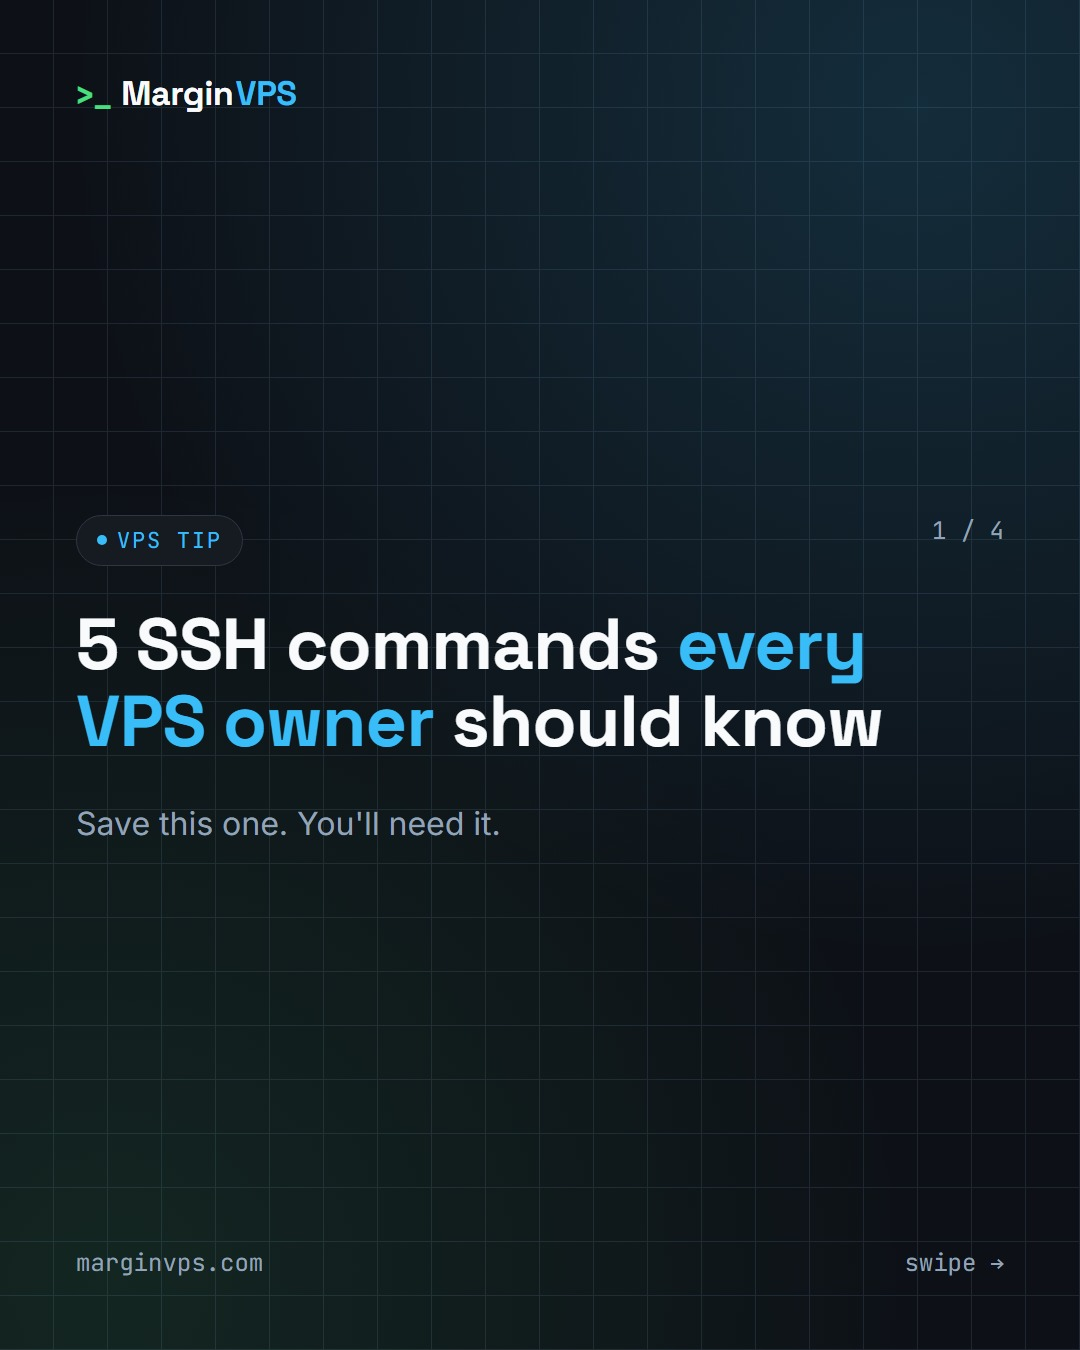
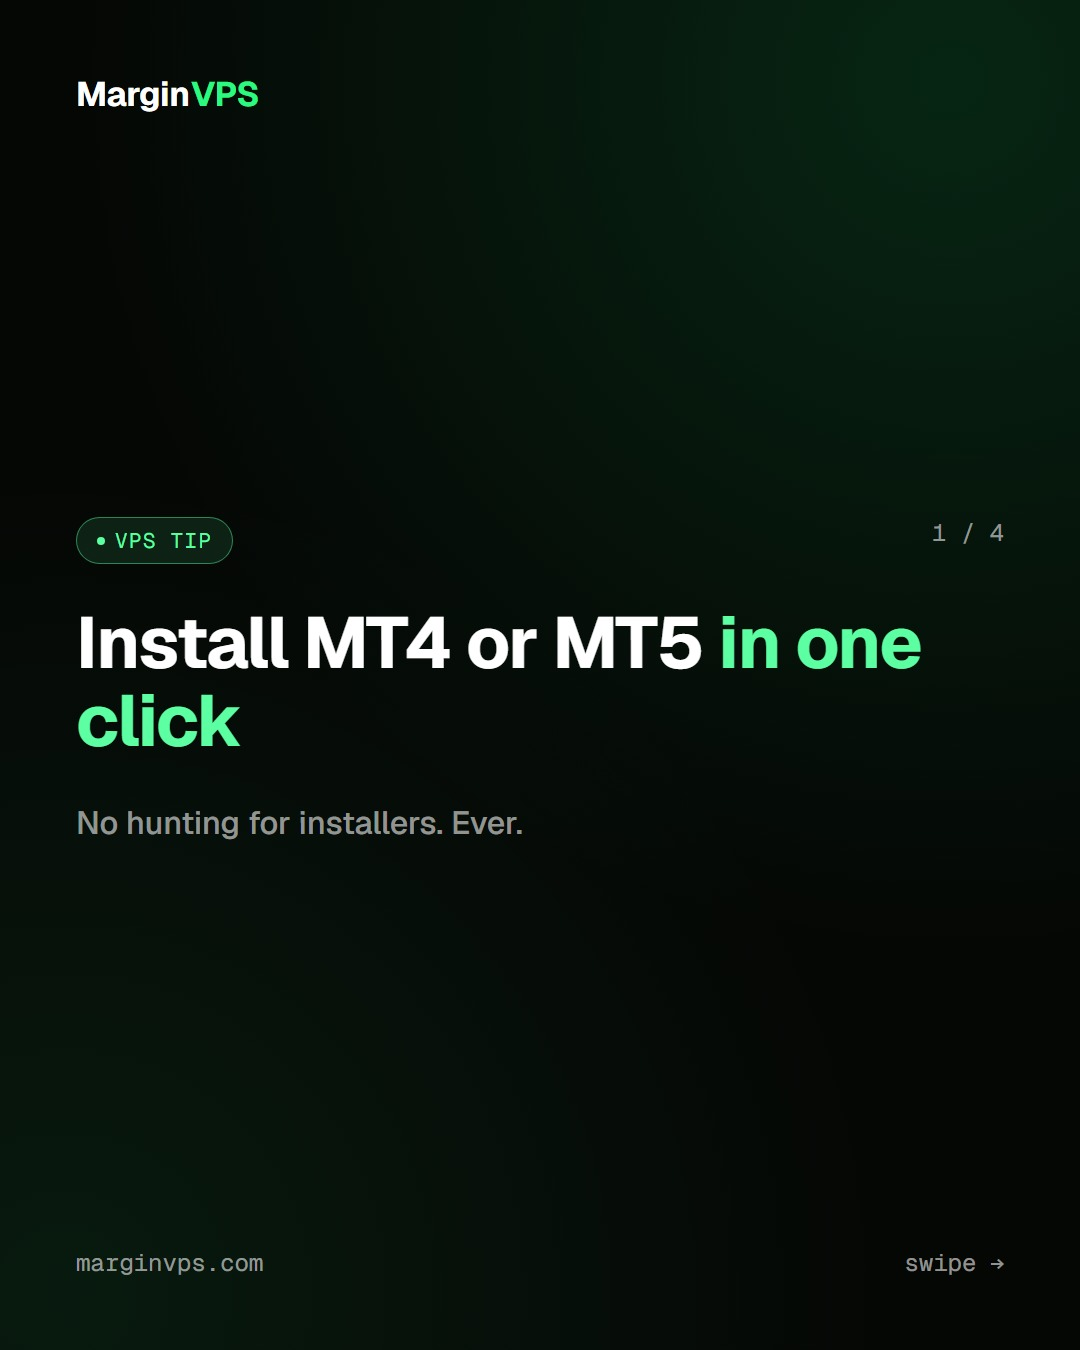
Correct brand to real MarginVPS identity (forex VPS, black/green) and rewrite 14-day calendar for forex-trading content

diff --git a/templates/slide.html b/templates/slide.html
@@ -5,37 +5,31 @@
 <title>MarginVPS Slide</title>
 <link rel="preconnect" href="https://fonts.googleapis.com">
 <link rel="preconnect" href="https://fonts.gstatic.com" crossorigin>
-<link href="https://fonts.googleapis.com/css2?family=Space+Grotesk:wght@500;700&family=Inter:wght@400;500;600&family=JetBrains+Mono:wght@400;500&display=swap" rel="stylesheet">
+<link href="https://fonts.googleapis.com/css2?family=Geist:wght@500;600;700&family=Geist+Mono:wght@400;500&display=swap" rel="stylesheet">
 <style>
   :root{
-    --bg: #0D1117;
-    --bg-raised: #161B22;
-    --grid-line: #1E2630;
-    --cyan: #38BDF8;
-    --green: #4ADE80;
-    --amber: #FB923C;
-    --text: #F8FAFC;
-    --text-dim: #94A3B8;
-    --border: #2D3643;
+    --bg: #050705;
+    --bg-raised: #0B100B;
+    --hairline: rgba(255,255,255,0.1);
+    --green: #12E068;
+    --mint: #2CF982;
+    --mint-light: #5CFFA1;
+    --text: #FFFFFF;
+    --text-dim: rgba(255,255,255,0.56);
   }
   *{box-sizing:border-box; margin:0; padding:0;}
   html,body{width:1080px; height:1350px; overflow:hidden;}
   body{
     background: var(--bg);
     color: var(--text);
-    font-family: "Inter", Arial, sans-serif;
+    font-family: "Geist", Arial, sans-serif;
     position: relative;
-    background-image:
-      linear-gradient(var(--grid-line) 1px, transparent 1px),
-      linear-gradient(90deg, var(--grid-line) 1px, transparent 1px);
-    background-size: 54px 54px;
-    background-position: -1px -1px;
   }
   body::before{
     content:"";
     position:absolute; inset:0;
-    background: radial-gradient(circle at 85% 8%, rgba(56,189,248,0.16), transparent 55%),
-                radial-gradient(circle at 10% 95%, rgba(74,222,128,0.10), transparent 50%);
+    background: radial-gradient(circle at 88% 6%, rgba(18,224,104,0.14), transparent 55%),
+                radial-gradient(circle at 6% 96%, rgba(44,249,130,0.08), transparent 50%);
     pointer-events:none;
   }
   .frame{
@@ -47,122 +41,129 @@
 
   /* wordmark */
   .wordmark{
-    display:inline-flex; align-items:baseline; gap:2px;
-    font-family:"Space Grotesk", Arial, sans-serif;
+    display:inline-flex; align-items:baseline; gap:1px;
+    font-family:"Geist", Arial, sans-serif;
     font-weight:700; font-size:34px; letter-spacing:-0.01em;
   }
-  .wordmark .prompt{ color:var(--green); font-family:"JetBrains Mono", monospace; font-size:30px; margin-right:8px; }
   .wordmark .margin{ color:var(--text); }
-  .wordmark .vps{ color:var(--cyan); }
+  .wordmark .vps{ color:var(--mint); }
 
-  /* pillar badge */
+  /* pillar badge — mirrors the site's latency-pill look */
   .badge{
     display:inline-flex; align-items:center; gap:10px;
-    padding: 10px 20px;
+    padding: 9px 20px;
     border-radius: 999px;
-    border: 1px solid var(--border);
-    background: var(--bg-raised);
-    font-family:"JetBrains Mono", monospace;
-    font-size: 22px; letter-spacing: 0.08em;
+    border: 1px solid color-mix(in srgb, var(--badge-color, var(--mint-light)) 45%, transparent);
+    background: color-mix(in srgb, var(--badge-color, var(--mint-light)) 10%, transparent);
+    font-family:"Geist Mono", monospace;
+    font-size: 21px; letter-spacing: 0.06em;
     text-transform: uppercase;
-    color: var(--badge-color, var(--cyan));
+    color: var(--badge-color, var(--mint-light));
     width: fit-content;
   }
-  .badge .dot{ width:10px; height:10px; border-radius:50%; background:var(--badge-color, var(--cyan)); }
+  .badge .dot{ width:8px; height:8px; border-radius:50%; background:var(--badge-color, var(--mint-light)); }
 
   .topbar{ display:flex; justify-content:space-between; align-items:flex-start; }
-  .pager{ font-family:"JetBrains Mono", monospace; color:var(--text-dim); font-size:24px; }
+  .pager{ font-family:"Geist Mono", monospace; color:var(--text-dim); font-size:24px; }
 
   .headline{
-    font-family:"Space Grotesk", Arial, sans-serif;
+    font-family:"Geist", Arial, sans-serif;
     font-weight:700;
     font-size: 72px;
     line-height: 1.08;
-    letter-spacing:-0.01em;
+    letter-spacing:-0.02em;
     color: var(--text);
   }
-  .headline .accent{ color: var(--badge-color, var(--cyan)); }
+  .headline .accent{ color: var(--badge-color, var(--mint-light)); }
 
   .sub{
     font-size: 32px;
     line-height: 1.45;
     color: var(--text-dim);
     max-width: 92%;
+    font-weight: 500;
   }
 
-  /* content slide list */
+  /* numbered step list */
   .list{ display:flex; flex-direction:column; gap:28px; }
   .list-item{
     display:flex; gap:22px; align-items:flex-start;
     font-size: 34px; line-height:1.4; color: var(--text);
+    font-weight: 500;
+    padding-bottom: 26px;
+    border-bottom: 1px solid var(--hairline);
   }
+  .list-item:last-child{ border-bottom: none; }
   .list-item .num{
-    font-family:"JetBrains Mono", monospace;
-    color: var(--badge-color, var(--cyan));
+    font-family:"Geist Mono", monospace;
+    color: var(--badge-color, var(--mint-light));
     font-size: 30px; font-weight:500;
     flex-shrink:0; padding-top:4px;
   }
 
-  /* terminal window motif */
-  .terminal{
+  /* label/value row list — broker latency, feature checklists, comparisons */
+  .rows{ display:flex; flex-direction:column; }
+  .row{
+    display:flex; justify-content:space-between; align-items:center;
+    padding: 26px 0;
+    border-bottom: 1px solid var(--hairline);
+  }
+  .row:last-child{ border-bottom:none; }
+  .row .label{ font-size: 32px; font-weight:600; color: var(--text); }
+  .row .label .meta{ display:block; font-size:22px; color:var(--text-dim); font-weight:500; margin-top:4px; font-family:"Geist Mono", monospace; }
+  .row .value{
+    font-family:"Geist Mono", monospace;
+    font-size: 26px; font-weight:500;
+    color: var(--mint-light);
+    background: rgba(44,249,130,0.1);
+    border: 1px solid rgba(44,249,130,0.35);
+    border-radius: 999px;
+    padding: 10px 22px;
+  }
+
+  /* card grid, dark hairline-bordered card */
+  .card{
     background: var(--bg-raised);
-    border: 1px solid var(--border);
-    border-radius: 16px;
-    overflow:hidden;
-    box-shadow: 0 30px 60px -20px rgba(0,0,0,0.6);
+    border: 1px solid var(--hairline);
+    border-radius: 20px;
+    padding: 36px 38px;
   }
-  .terminal .bar{
-    display:flex; align-items:center; gap:10px;
-    padding: 16px 20px;
-    border-bottom: 1px solid var(--border);
-  }
-  .terminal .bar span{ width:14px; height:14px; border-radius:50%; display:inline-block; }
-  .terminal .bar span:nth-child(1){ background:#FB5B5B; }
-  .terminal .bar span:nth-child(2){ background:#F6C343; }
-  .terminal .bar span:nth-child(3){ background:#4ADE80; }
-  .terminal .body{
-    padding: 28px 30px;
-    font-family:"JetBrains Mono", monospace;
-    font-size: 26px; line-height:1.7;
-    color: var(--green);
-  }
-  .terminal .body .c-dim{ color: var(--text-dim); }
-  .terminal .body .c-cyan{ color: var(--cyan); }
 
   /* stat slide */
   .stat-wrap{ display:flex; flex-direction:column; align-items:flex-start; gap:18px; }
   .stat-number{
-    font-family:"Space Grotesk", Arial, sans-serif;
+    font-family:"Geist", Arial, sans-serif;
     font-weight:700;
     font-size: 220px;
     line-height: 0.95;
-    color: var(--badge-color, var(--cyan));
+    color: var(--badge-color, var(--mint-light));
     letter-spacing:-0.02em;
   }
   .stat-label{
     font-size: 36px;
     color: var(--text);
-    font-weight:500;
+    font-weight:600;
   }
   .stat-context{
     font-size: 28px;
     color: var(--text-dim);
     max-width: 85%;
+    font-weight: 500;
   }
 
   /* testimonial slide */
   .quote-mark{
-    font-family:"Space Grotesk", Arial, sans-serif;
+    font-family:"Geist", Arial, sans-serif;
     font-size: 140px;
-    color: var(--badge-color, var(--cyan));
+    color: var(--badge-color, var(--mint-light));
     line-height: 0.6;
     opacity:0.85;
   }
   .quote-text{
-    font-family:"Space Grotesk", Arial, sans-serif;
-    font-weight:500;
-    font-size: 54px;
-    line-height: 1.3;
+    font-family:"Geist", Arial, sans-serif;
+    font-weight:600;
+    font-size: 52px;
+    line-height: 1.32;
     letter-spacing:-0.01em;
     color: var(--text);
   }
@@ -172,12 +173,12 @@
   }
   .attribution .avatar{
     width:56px; height:56px; border-radius:50%;
-    background: linear-gradient(135deg, var(--cyan), var(--green));
+    background: linear-gradient(135deg, var(--green), var(--mint));
     display:flex; align-items:center; justify-content:center;
-    font-family:"Space Grotesk", Arial, sans-serif; font-weight:700; color:#0D1117; font-size:24px;
+    font-family:"Geist", Arial, sans-serif; font-weight:700; color:#050705; font-size:24px;
   }
   .attribution .name{ font-size:26px; color:var(--text); font-weight:600; }
-  .attribution .role{ font-size:22px; color:var(--text-dim); }
+  .attribution .role{ font-size:22px; color:var(--text-dim); font-weight:500; }
 
   /* cta slide */
   .cta-wrap{
@@ -185,38 +186,26 @@
     display:flex; flex-direction:column; align-items:center; justify-content:center;
     text-align:center; gap:26px;
   }
-  .cta-wordmark{
-    font-family:"Space Grotesk", Arial, sans-serif;
-    font-weight:700; font-size: 58px;
-  }
-  .cta-tagline{ font-size: 32px; color:var(--text-dim); max-width:80%; }
+  .cta-tagline{ font-size: 32px; color:var(--text-dim); max-width:80%; font-weight:500; }
   .cta-button{
     margin-top: 10px;
     padding: 22px 48px;
     border-radius: 14px;
-    background: linear-gradient(135deg, var(--cyan), #22D3EE);
-    color: #0D1117;
-    font-family:"Space Grotesk", Arial, sans-serif;
+    background: var(--green);
+    color: #050705;
+    font-family:"Geist", Arial, sans-serif;
     font-weight:700; font-size: 30px;
   }
   .cta-url{
-    font-family:"JetBrains Mono", monospace;
-    color: var(--green); font-size: 26px; letter-spacing:0.02em;
-  }
-  .swipe-cue{
-    position:absolute; bottom:64px; left:0; right:0;
-    display:flex; justify-content:center; align-items:center; gap:12px;
-    font-family:"JetBrains Mono", monospace; color:var(--text-dim); font-size:22px;
-    letter-spacing:0.08em; text-transform:uppercase;
+    font-family:"Geist Mono", monospace;
+    color: var(--mint-light); font-size: 26px; letter-spacing:0.02em;
   }
 
   .footer-row{ display:flex; justify-content:space-between; align-items:center; }
-  .footer-url{ font-family:"JetBrains Mono", monospace; color:var(--text-dim); font-size:24px; }
+  .footer-url{ font-family:"Geist Mono", monospace; color:var(--text-dim); font-size:24px; }
 
   .grow{ flex:1; display:flex; flex-direction:column; justify-content:center; gap:40px; }
   .stack{ display:flex; flex-direction:column; gap:40px; }
-
-  [data-slide="hidden"]{ display:none; }
 </style>
 </head>
 <body>

diff --git a/scripts/render_slides.py b/scripts/render_slides.py
@@ -9,16 +9,15 @@ CALENDAR_PATH = ROOT / "content" / "calendar.json"
 EXPORT_DIR = ROOT / "exports"
 
 COLOR_VARS = {
-    "cyan": "#38BDF8",
-    "amber": "#FB923C",
-    "green": "#4ADE80",
+    "green": "#12E068",
+    "mint": "#2CF982",
+    "mintlight": "#5CFFA1",
 }
 
 
 def wordmark_html():
     return (
         '<div class="wordmark">'
-        '<span class="prompt">&gt;_</span>'
         '<span class="margin">Margin</span><span class="vps">VPS</span>'
         "</div>"
     )
@@ -58,17 +57,14 @@ def render_cover(slide):
 
 def render_content(slide):
     body_type = slide.get("body_type", "list")
-    if body_type == "terminal":
-        lines = "\n".join(
-            f'<div>{line}</div>' if line else "<div>&nbsp;</div>"
-            for line in slide["terminal_lines"]
+    if body_type == "rows":
+        rows = "\n".join(
+            f'<div class="row"><div class="label">{r["label"]}'
+            + (f'<span class="meta">{r["meta"]}</span>' if r.get("meta") else "")
+            + f'</div><div class="value">{r["value"]}</div></div>'
+            for r in slide["rows"]
         )
-        body = f"""
-        <div class="terminal">
-          <div class="bar"><span></span><span></span><span></span></div>
-          <div class="body">{lines}</div>
-        </div>
-        """
+        body = f'<div class="rows">{rows}</div>'
     else:
         items = "\n".join(
             f'<div class="list-item"><span class="num">{i+1:02d}</span><span>{item}</span></div>'
@@ -149,8 +145,8 @@ RENDERERS = {
 
 
 def badge_color_hex(slide):
-    key = slide.get("badge_color", "cyan")
-    return COLOR_VARS.get(key, COLOR_VARS["cyan"])
+    key = slide.get("badge_color", "mintlight")
+    return COLOR_VARS.get(key, COLOR_VARS["mintlight"])
 
 
 def build_slide_html(template_src, slide):
@@ -173,9 +169,9 @@ def render_day(day, template_src, browser):
         html_path.write_text(html, encoding="utf-8")
         page.goto(html_path.resolve().as_uri())
         page.wait_for_timeout(250)
-        png_path = EXPORT_DIR / f"{day_id}_slide{idx}.png"
-        page.screenshot(path=str(png_path))
-        out_paths.append(png_path)
+        jpg_path = EXPORT_DIR / f"{day_id}_slide{idx}.jpg"
+        page.screenshot(path=str(jpg_path), type="jpeg", quality=92)
+        out_paths.append(jpg_path)
     page.close()
     return out_paths
 
